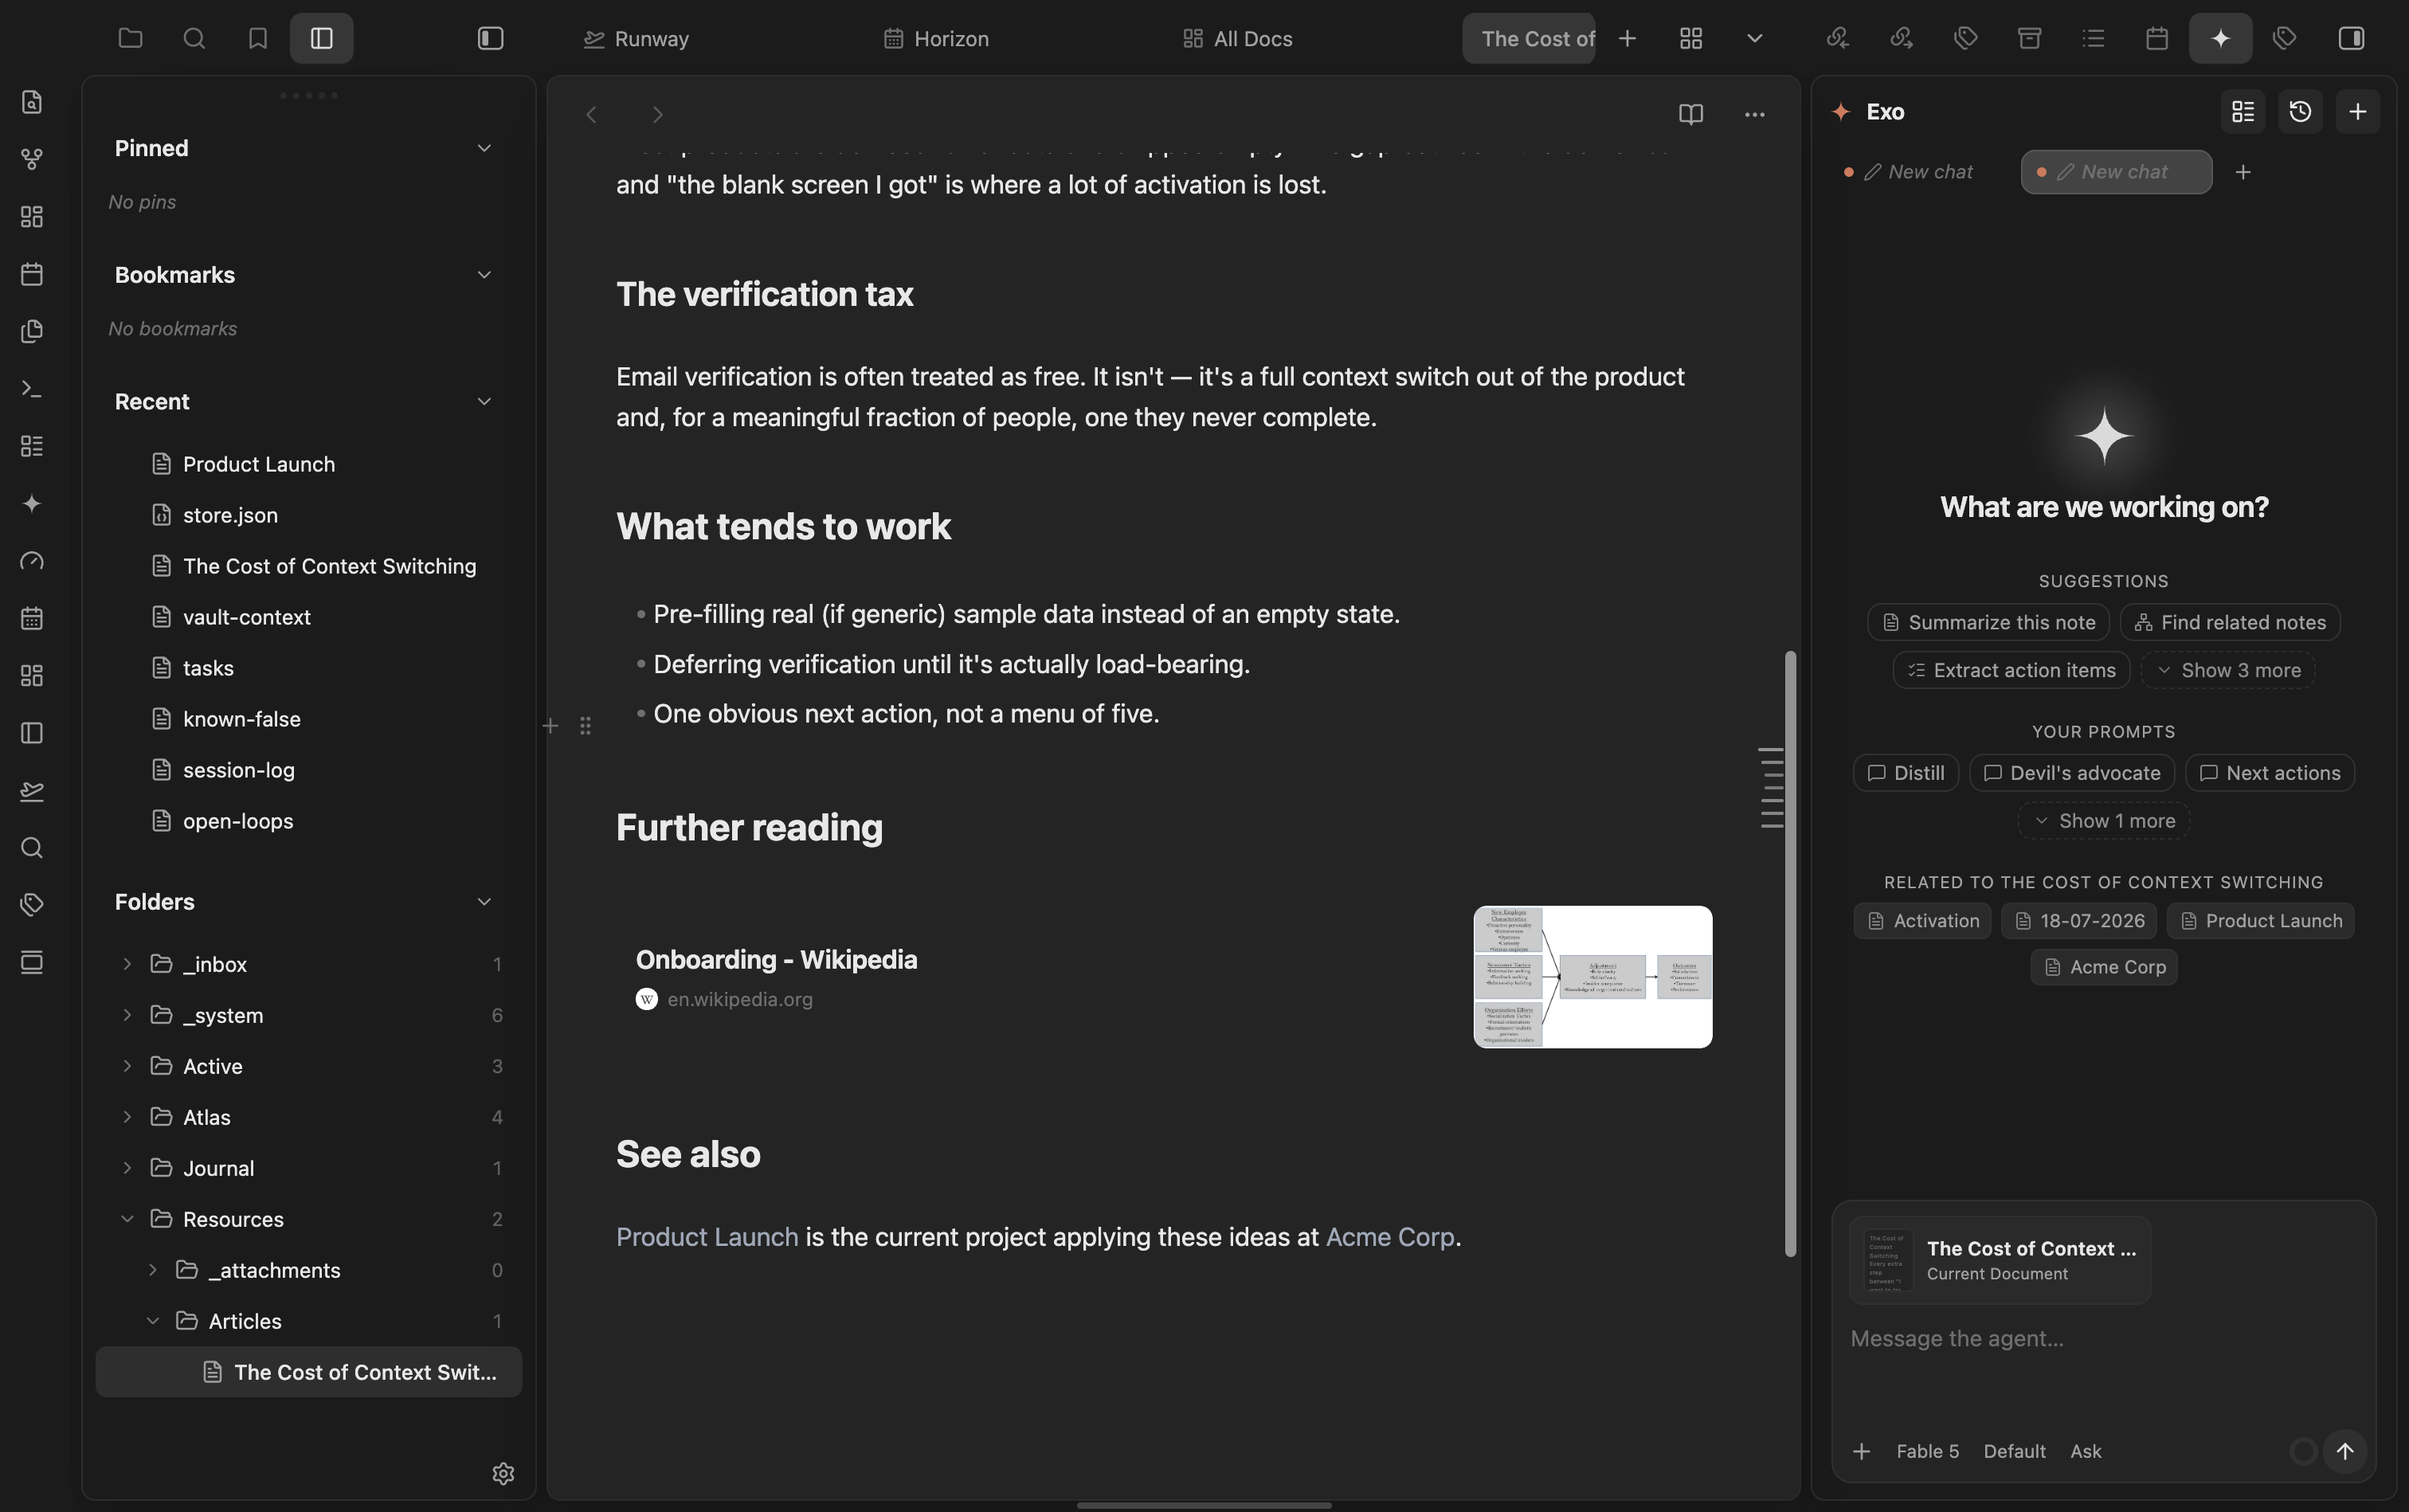
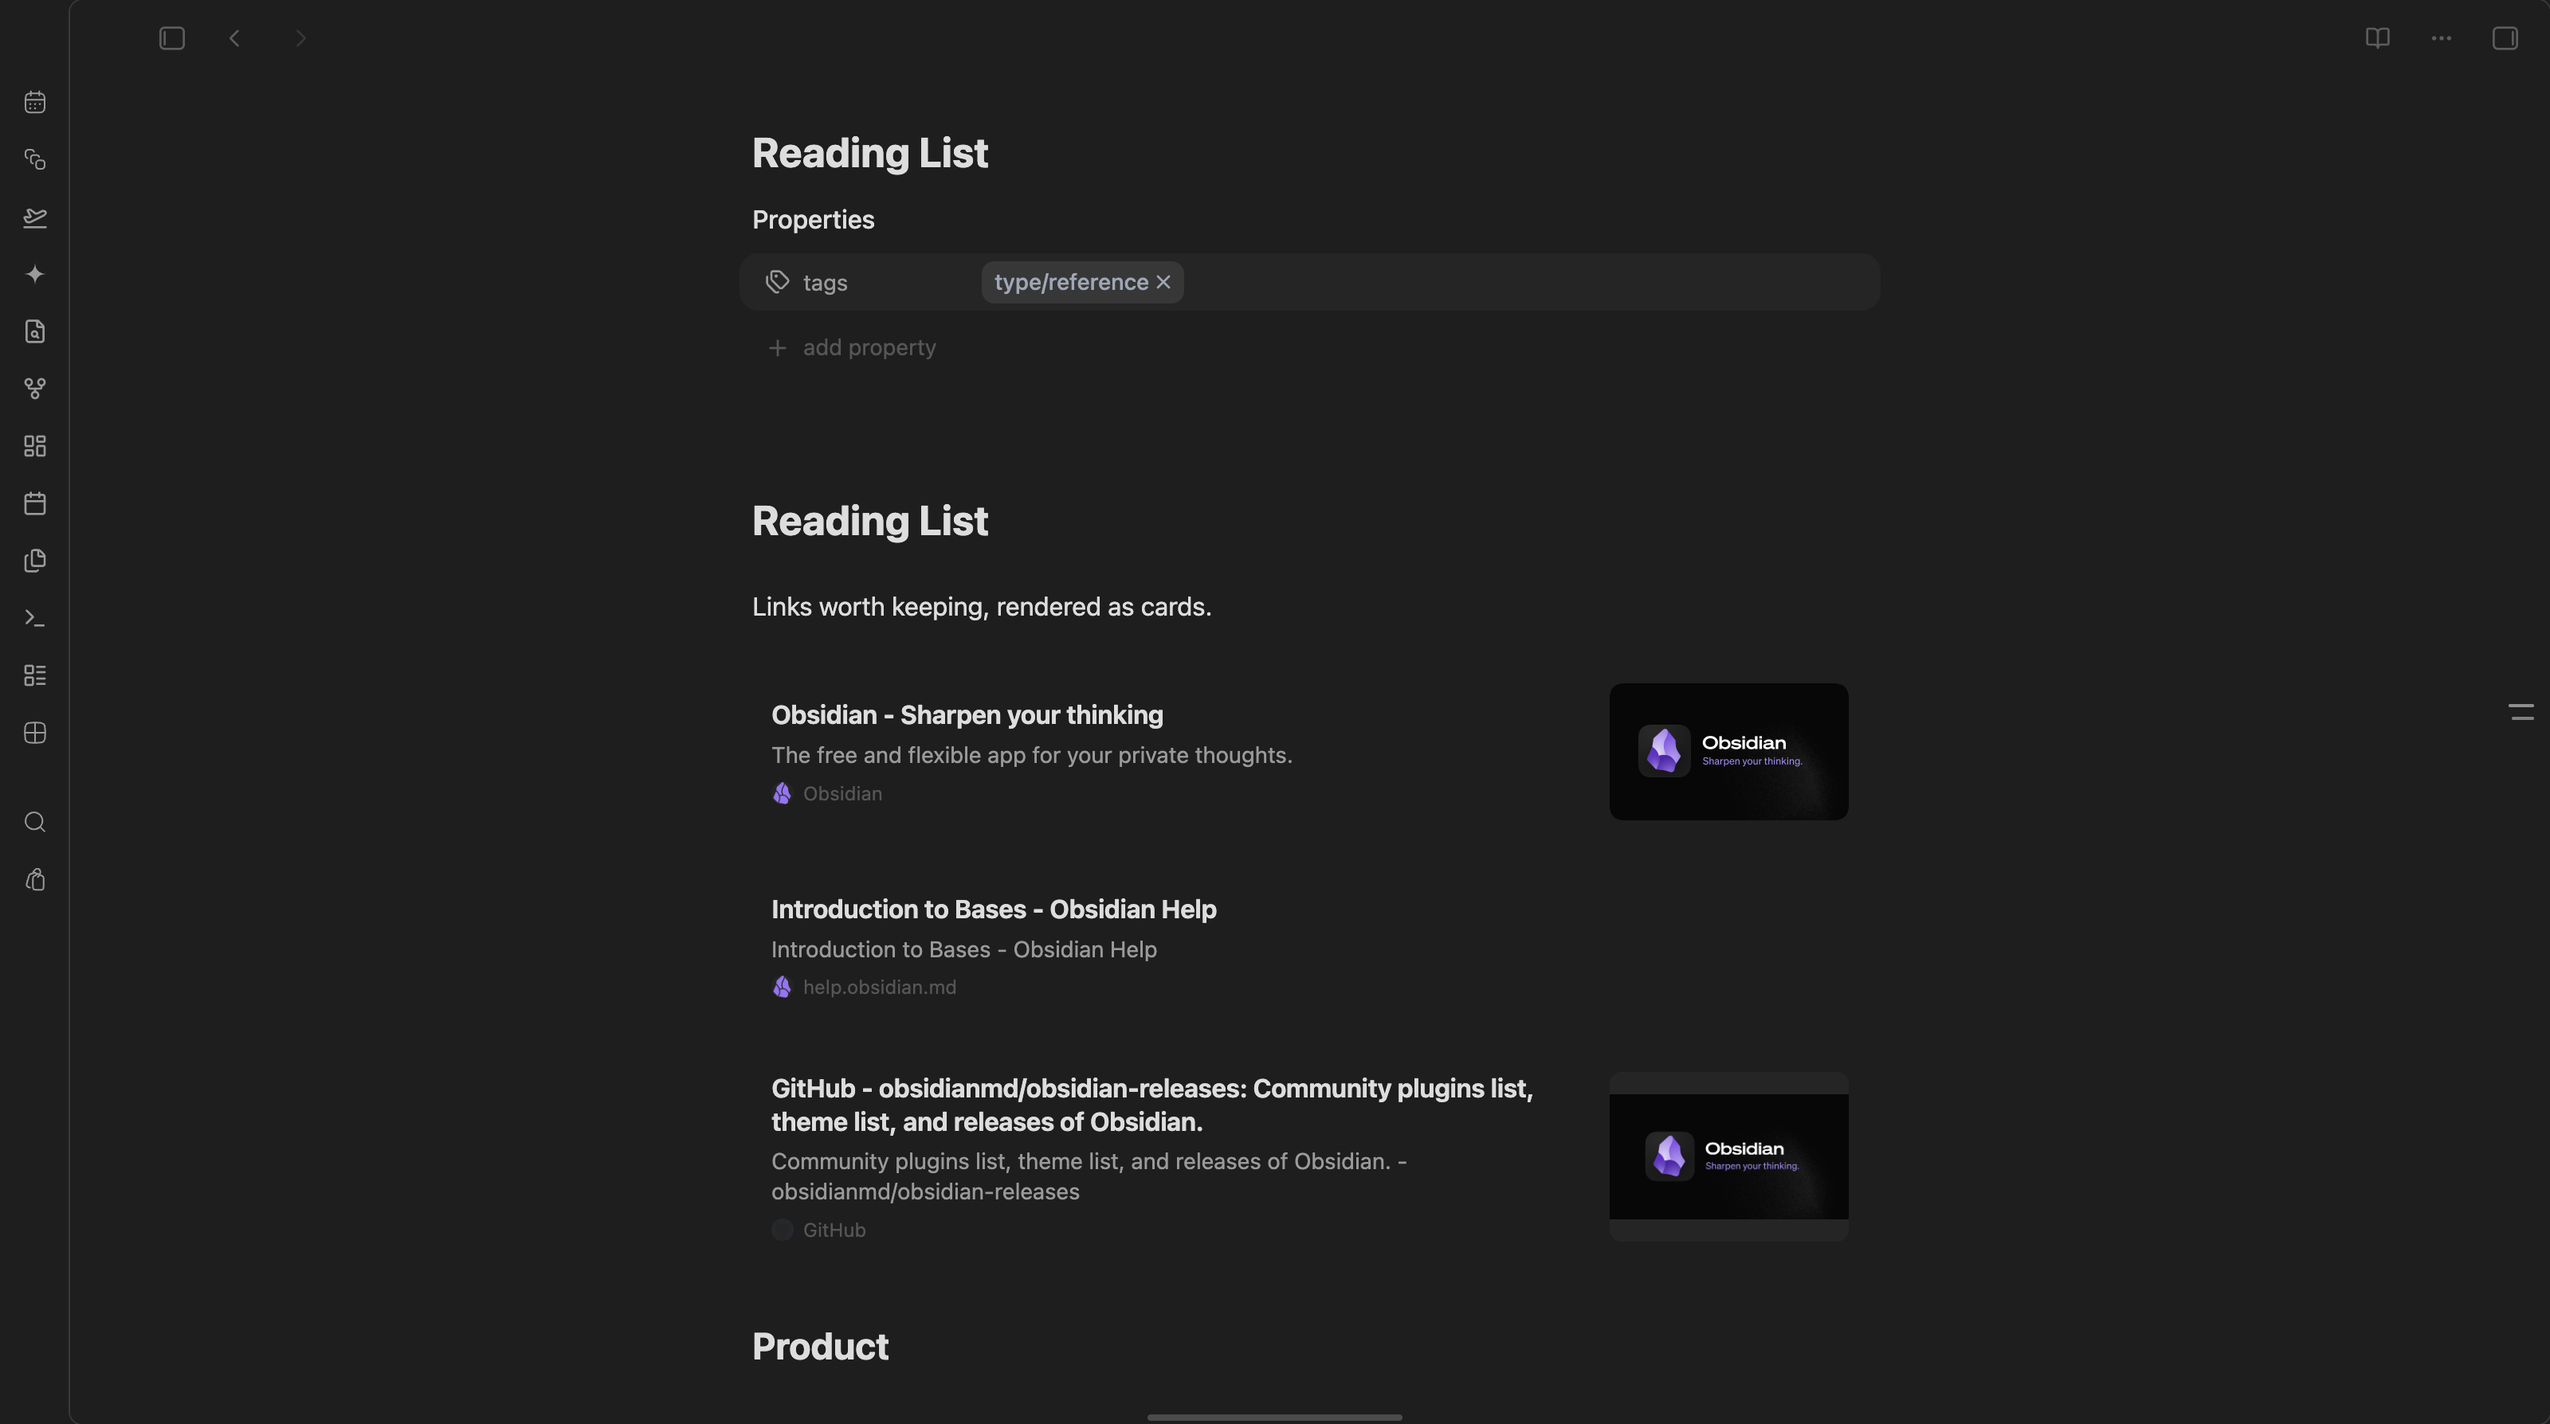
docs: real screenshots from the sample vault in the README
Captured in Obsidian with Cosmos and the current plugin build, on the
public obsidianverse sample vault.

diff --git a/README.md b/README.md
@@ -6,9 +6,9 @@ the note source as ordinary Markdown.
 Part of the marioverse Obsidian plugin suite.
 
 <p align="center">
-  <img src="docs/card.png" width="700" alt="Glance — a rendered link card" />
+  <img src="docs/card.png" width="900" alt="Glance: standalone links rendered as cards" />
 </p>
-<p align="center"><em>A standalone link, rendered as a card with favicon, domain, and preview image.</em></p>
+<p align="center"><em>Standalone links, rendered as cards with favicon, domain, and preview image.</em></p>
 
 ## What makes it different
 
